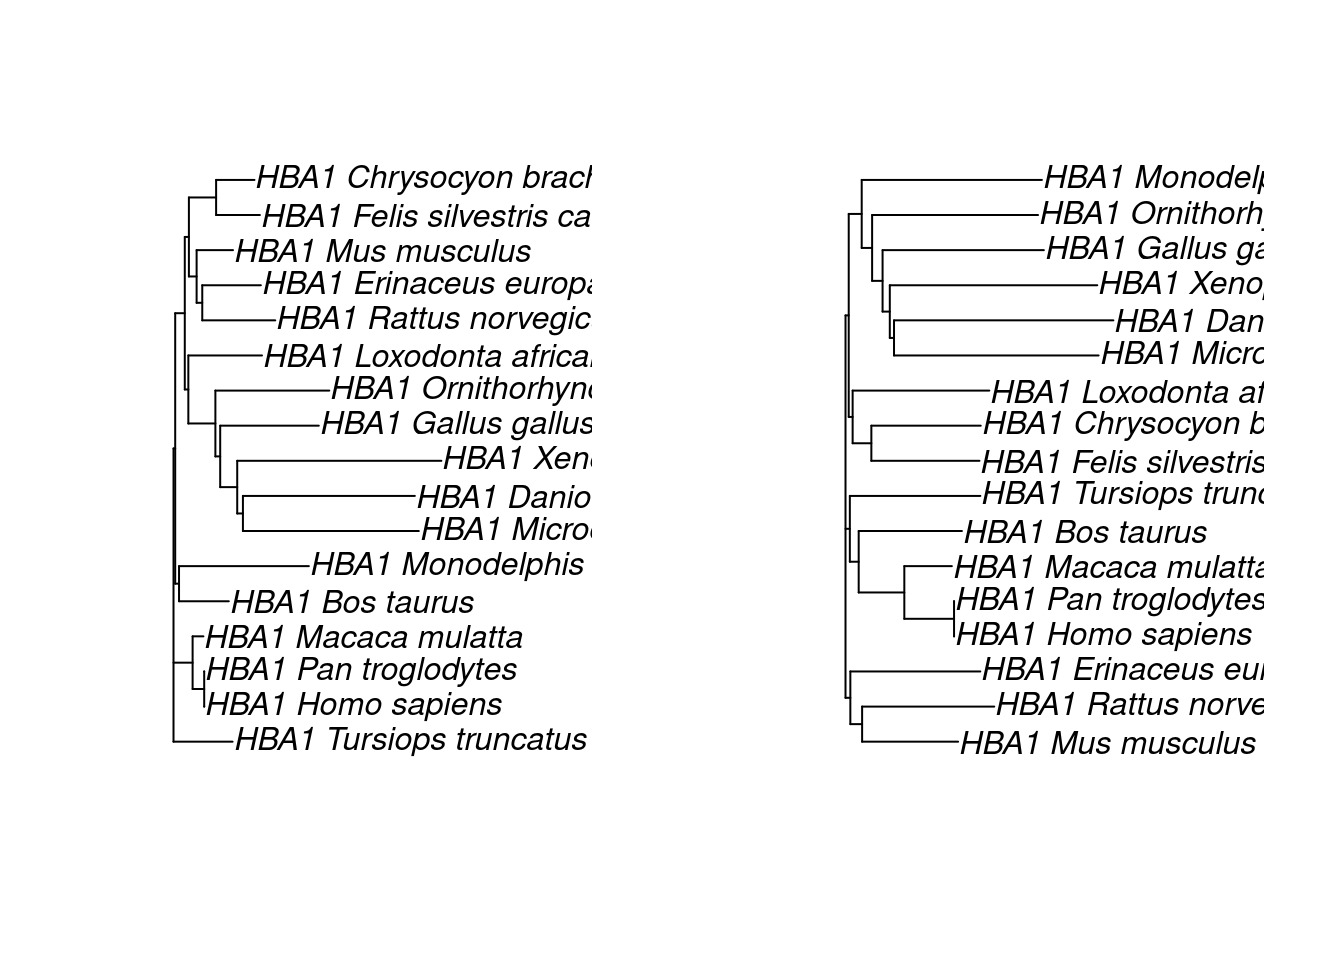
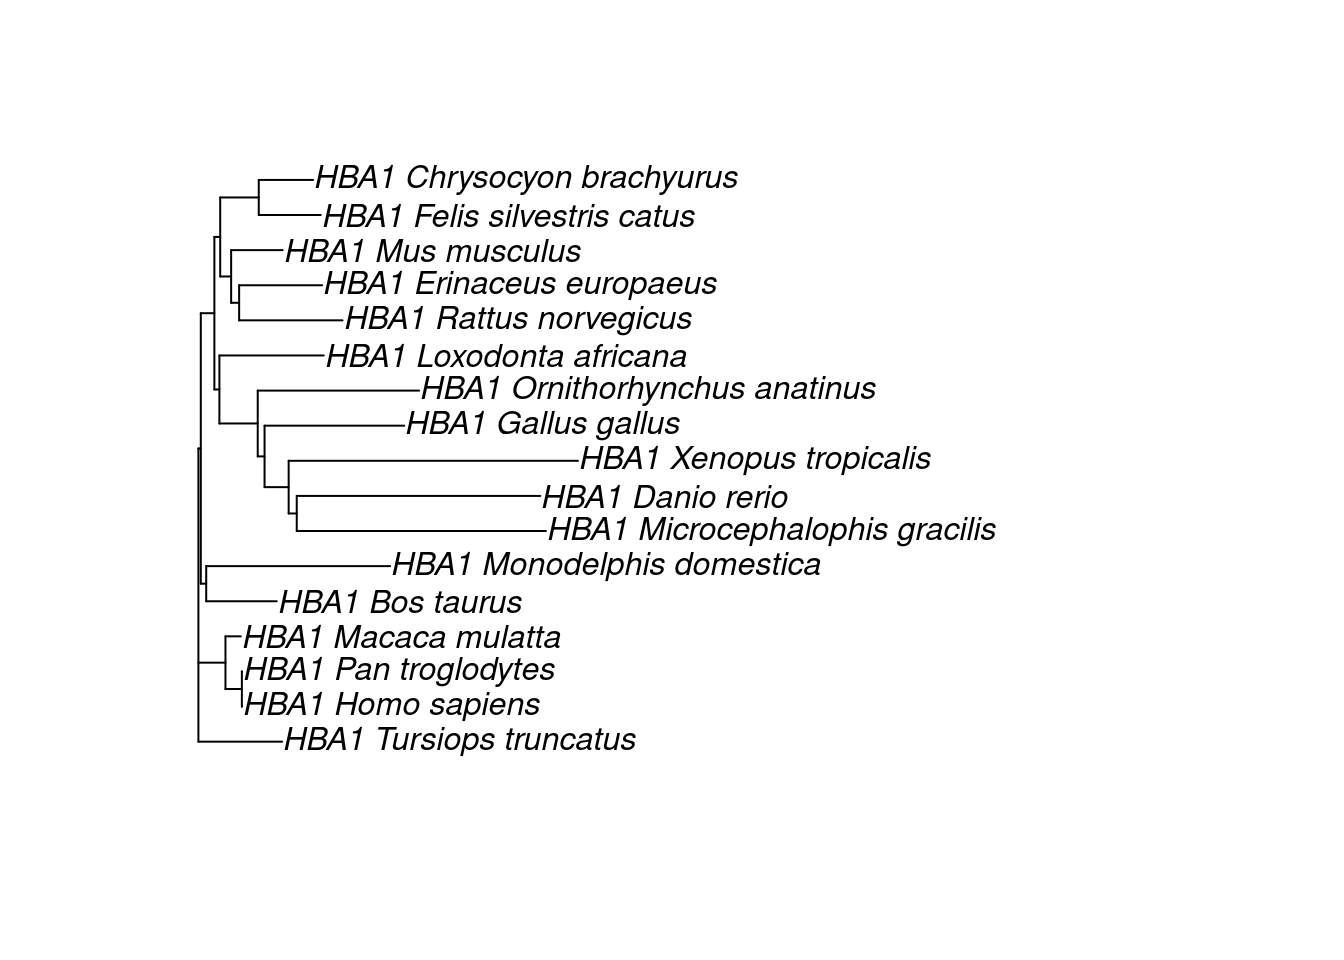
Built site for gh-pages

Changed region(s): [[0.125, 0.1562, 0.9375, 0.7812], [0.625, 0.6875, 0.6562, 0.7812]]

diff --git a/phylogeny_inference_distance.html b/phylogeny_inference_distance.html
@@ -218,6 +218,7 @@ div.csl-indent {
   <li><a href="#multiple-sequence-alignment-msa" id="toc-multiple-sequence-alignment-msa" class="nav-link" data-scroll-target="#multiple-sequence-alignment-msa"><span class="toc-section-number">3.2</span>  Multiple Sequence Alignment (MSA)</a></li>
   <li><a href="#calculating-distance-matrices" id="toc-calculating-distance-matrices" class="nav-link" data-scroll-target="#calculating-distance-matrices"><span class="toc-section-number">3.3</span>  Calculating distance matrices</a></li>
   <li><a href="#inferring-trees" id="toc-inferring-trees" class="nav-link" data-scroll-target="#inferring-trees"><span class="toc-section-number">3.4</span>  Inferring trees</a></li>
+  <li><a href="#references" id="toc-references" class="nav-link" data-scroll-target="#references">References</a></li>
   </ul>
 </nav>
     </div>
@@ -386,14 +387,19 @@ Computing: [========================================] 100% (done)               
 <span id="cb20-5"><a href="#cb20-5" aria-hidden="true" tabindex="-1"></a>tree2 <span class="ot">&lt;-</span> <span class="fu">bionjs</span>(dist_matrix2)</span>
 <span id="cb20-6"><a href="#cb20-6" aria-hidden="true" tabindex="-1"></a></span>
 <span id="cb20-7"><a href="#cb20-7" aria-hidden="true" tabindex="-1"></a><span class="co"># Plotting trees</span></span>
-<span id="cb20-8"><a href="#cb20-8" aria-hidden="true" tabindex="-1"></a><span class="fu">par</span>(<span class="at">mfrow =</span> <span class="fu">c</span>(<span class="dv">1</span>,<span class="dv">2</span>))</span>
-<span id="cb20-9"><a href="#cb20-9" aria-hidden="true" tabindex="-1"></a><span class="fu">plot</span>(tree1)</span>
-<span id="cb20-10"><a href="#cb20-10" aria-hidden="true" tabindex="-1"></a><span class="fu">plot</span>(tree2)</span></code><button title="Copy to Clipboard" class="code-copy-button"><i class="bi"></i></button></pre></div>
+<span id="cb20-8"><a href="#cb20-8" aria-hidden="true" tabindex="-1"></a><span class="fu">plot</span>(tree1)</span></code><button title="Copy to Clipboard" class="code-copy-button"><i class="bi"></i></button></pre></div>
 <div class="cell-output-display">
 <p><img src="phylogeny_inference_distance_files/figure-html/unnamed-chunk-5-1.png" class="img-fluid" width="672"></p>
 </div>
+<div class="sourceCode cell-code" id="cb21"><pre class="sourceCode r code-with-copy"><code class="sourceCode r"><span id="cb21-1"><a href="#cb21-1" aria-hidden="true" tabindex="-1"></a><span class="fu">plot</span>(tree2)</span></code><button title="Copy to Clipboard" class="code-copy-button"><i class="bi"></i></button></pre></div>
+<div class="cell-output-display">
+<p><img src="phylogeny_inference_distance_files/figure-html/unnamed-chunk-5-2.png" class="img-fluid" width="672"></p>
+</div>
 </div>
 <p>The two methods lead to different tree topologies. How do you know which one is “true”, then? This is the topic of the next lesson, where you will learn how to use maximum likelihood to assess trees.</p>
+</section>
+<section id="references" class="level2 unnumbered">
+<h2 class="unnumbered anchored" data-anchor-id="references">References</h2>
 
 
 <div id="refs" class="references csl-bib-body hanging-indent" role="doc-bibliography">

diff --git a/data_structures_genomics.html b/data_structures_genomics.html
@@ -220,6 +220,7 @@ div.csl-indent {
   <li><a href="#the-biostrings-package-and-xmultiplealignment-objects" id="toc-the-biostrings-package-and-xmultiplealignment-objects" class="nav-link" data-scroll-target="#the-biostrings-package-and-xmultiplealignment-objects"><span class="toc-section-number">2.1.2</span>  The {Biostrings} package and <code>XMultipleAlignment</code> objects</a></li>
   </ul></li>
   <li><a href="#the-ape-package-and-phylo-objects" id="toc-the-ape-package-and-phylo-objects" class="nav-link" data-scroll-target="#the-ape-package-and-phylo-objects"><span class="toc-section-number">2.2</span>  The {ape} package and <code>phylo</code> objects</a></li>
+  <li><a href="#references" id="toc-references" class="nav-link" data-scroll-target="#references">References</a></li>
   </ul>
 </nav>
     </div>
@@ -600,6 +601,9 @@ Solution
 </div>
 </div>
 </div>
+</section>
+<section id="references" class="level2 unnumbered">
+<h2 class="unnumbered anchored" data-anchor-id="references">References</h2>
 
 
 <div id="refs" class="references csl-bib-body hanging-indent" role="doc-bibliography">
